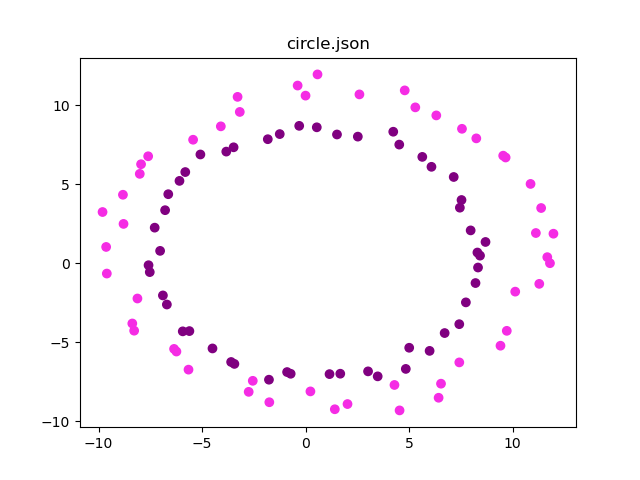
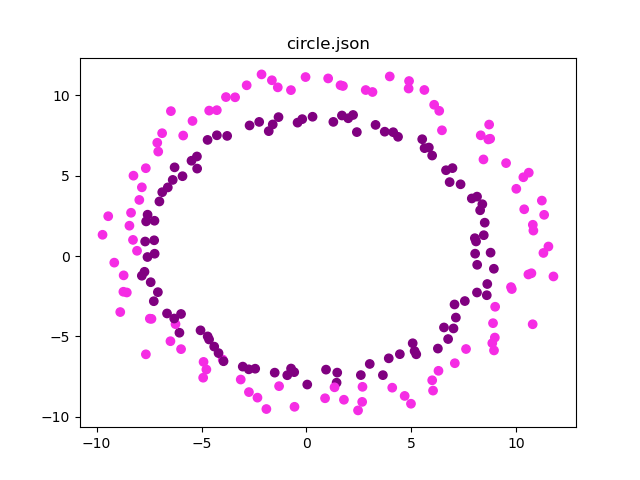
Update data

diff --git a/data/generate.py b/data/generate.py
@@ -50,7 +50,6 @@ def DataGenerator(numSamples, noise, type):
                 inner_theta = np.linspace(0, 2 * np.pi, numSamples//2)
                 outer_scatter = outer_radius * np.array([np.cos(outer_theta), np.sin(outer_theta)]) + np.random.rand(2, numSamples//2) * 2
                 inner_scatter = inner_radius * np.array([np.cos(inner_theta), np.sin(inner_theta)]) + np.random.rand(2, numSamples//2) * 1
-                print(outer_scatter)
                 # return point objects
                 for i in range(numSamples//2):
                     points.append({"features":[inner_scatter[0][i], inner_scatter[1][i]], "label": 0})
@@ -92,16 +91,13 @@ def classifyData(numSamples, noise, type):
     fileName = BASEPATH+type + ".json"
     with open(fileName, "w") as f:
         json.dump(points, f)
-    # save the observations in json string format in txt files
-    with open(type + ".txt", "w") as f:
-        json.dump(points, f, indent=4)
 
     return points
 
 if __name__ == "__main__":
     for type in ["gaussian", "circle", "spiral", "xor"]:
         print("Generating " + type + " data...")
-        classifyData(100, .5, type)
+        classifyData(200, .5, type)
     print("Done!")
 
 

diff --git a/data/visualize.py b/data/visualize.py
@@ -21,6 +21,7 @@ for filename in os.listdir('data/saved'):
 
 # iterate through dataArray and plot each data
 for data in dataArray:
+    print("Plotting " + nameArray[dataArray.index(data)] + " data...")
     # plot the data
     # each observation has two features and a label
     # plot the features and color the label
@@ -39,10 +40,11 @@ for data in dataArray:
         ys.append(y)
         labels.append(label)
         colors.append(color)
-        print(observation)
-        print("--------------------")
     plt.scatter(xs, ys, color=colors)
     plt.title(nameArray[dataArray.index(data)])
     # save chart to png file
     plt.savefig(BASEPATH + nameArray[dataArray.index(data)] + '.png')
+
+print("Done!")
+print("Saved charts to " + BASEPATH)
 
